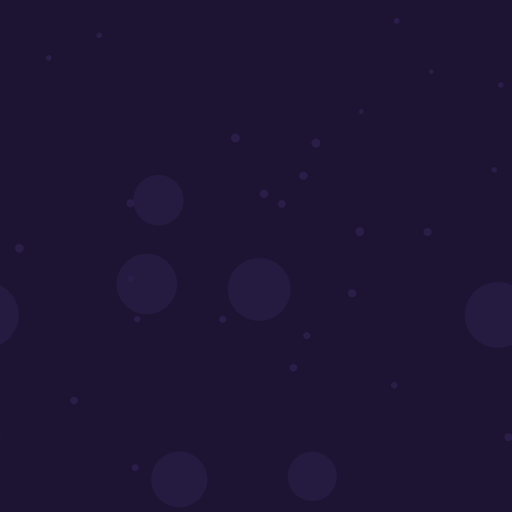
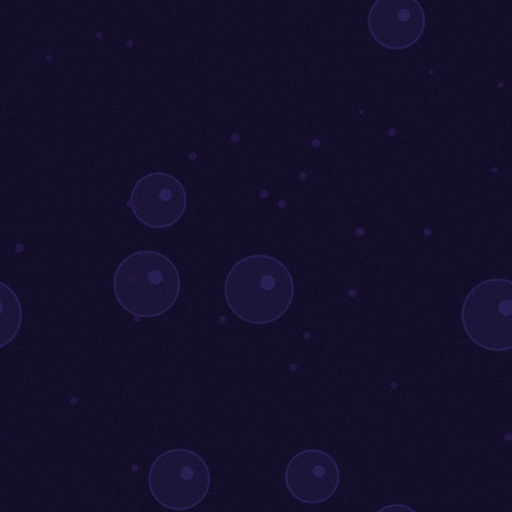
UI step 6: art pass (shaded germs, floor tile, glows, menu depth) at no fps cost
- Germ atlas (ShapeTextures.blob): baked glossy shading: a dark chunky
  outline, a body lit from the top-left with a darker underside and a
  highlight, the same light for all 16 eye directions. Same texture and
  draw count, so zero runtime cost.
- Floor tile regenerated in the new palette (tools/build_assets.py
  build_background): agar cells with a lighter rim and nucleus, dots, fine
  speckle.
- Soft glows on the floor under the player, elites and the Mother Cell
  (ShapeTextures.glow; drawn by WorldView under the sprite batches: a few
  quads per frame).
- Menu backdrop: germs at depths (far = soft out-of-focus glows, slower;
  near = shaded germs whose eyes look where they drift) and a soft spotlight
  behind the hero cell. One quad per germ (was two).
- Tried and dropped: a HUD edge vignette (~-2.6 fps in the render bench).

Render bench (xvfb, CPU-rendered, compare runs only): before 70.2 fps avg,
p95 16.67 ms, 170 draw calls; after 71.3 / 69.8 fps, p95 16.67 / 17.51 ms,
171-172 draw calls. No gameplay change.

Claude-Session: https://claude.ai/code/session_01Gsp3VsgeeLgrpKEN1j8eze

diff --git a/tools/build_assets.py b/tools/build_assets.py
@@ -116,24 +116,37 @@ def build_sfx() -> None:
     write("heartbeat", seq(env(osc(95, 48, 0.13, "sine"), attack=0.004, decay_pow=2.4), np.zeros(int(0.08 * RATE)), env(osc(85, 42, 0.11, "sine"), attack=0.004, decay_pow=2.6) * 0.7, np.zeros(int(0.05 * RATE))), 0.9)
 
 
-def build_background(size: int = 512, bg="#1d1433", dots="#2a1e48", cells="#251a40") -> None:
-    """Seamless 512px tile of faint dots and cells (drawn tiled under the world)."""
+def build_background(size: int = 512, bg="#150e2b", dots="#231845", cells="#1d1439", rims="#2b2056") -> None:
+    """Seamless 512px tile drawn under the world: an agar floor with soft
+    cells (a lighter rim, a darker inside), faint dots and fine speckle."""
+    from PIL import ImageFilter
     rng = np.random.default_rng(99)
     scale = 4  # supersample for smooth edges
     img = Image.new("RGB", (size * scale, size * scale), bg)
     d = ImageDraw.Draw(img)
 
-    def blob(x, y, r, col):
+    def blob(x, y, r, col, width=0):
         for ox in (-size, 0, size):  # wrap so the tile is seamless
             for oy in (-size, 0, size):
                 cx, cy = (x + ox) * scale, (y + oy) * scale
-                d.ellipse([cx - r * scale, cy - r * scale, cx + r * scale, cy + r * scale], fill=col)
+                box = [cx - r * scale, cy - r * scale, cx + r * scale, cy + r * scale]
+                if width:
+                    d.ellipse(box, outline=col, width=int(width * scale))
+                else:
+                    d.ellipse(box, fill=col)
 
-    for _ in range(6):
-        blob(rng.uniform(0, size), rng.uniform(0, size), rng.uniform(18, 44), cells)
-    for _ in range(26):
+    for _ in range(7):
+        x, y, r = rng.uniform(0, size), rng.uniform(0, size), rng.uniform(20, 48)
+        blob(x, y, r, cells)
+        blob(x, y, r, rims, width=2.2)
+        blob(x + r * 0.25, y - r * 0.2, r * 0.22, rims)  # a nucleus
+    for _ in range(30):
         blob(rng.uniform(0, size), rng.uniform(0, size), rng.uniform(2.0, 4.5), dots)
-    img = img.resize((size, size), Image.LANCZOS)
+    img = img.resize((size, size), Image.LANCZOS).filter(ImageFilter.GaussianBlur(0.6))
+    # Fine agar speckle (low contrast, seamless by construction).
+    arr = np.asarray(img).astype(np.int16)
+    arr += rng.integers(-3, 4, size=(size, size, 1)).astype(np.int16)
+    img = Image.fromarray(np.clip(arr, 0, 255).astype(np.uint8))
     out = ROOT / "assets" / "processed" / "bg_tile.png"
     img.save(out, optimize=True)
     print(f"wrote {out.name}")

diff --git a/docs/SESSION_HANDOFF.md b/docs/SESSION_HANDOFF.md
@@ -351,7 +351,7 @@ Yousuf's feel overrides the bot; use the bot for relative comparisons and catchi
 ## 10. What's next (prioritised backlog)
 
 **Next:**
-000. **UI/feel overhaul (Yousuf, 2026-11-06: "glossy chunky", Kenney font OK).** Step 1 (design system) done: glossy buttons, display font (Lilita One, OFL allowed for fonts), deeper palette, cards. Step 2 (motion) done: press squash + spring on every glossy button, staggered entrances for screens and overlays. Step 3 (level-up) done: "LEVEL UP!" header, cards framed by category (weapon colour / passive gold / dash cyan / Swarm green) with a tag, "LV n" chip, now→next stat lines for owned cards (`STAT_NAMES`, `_stat_lines`), gold frame + pulsing "EVOLUTION READY: <name>" when a pick makes an evolution ready (`_completes_evolution`), cards in slots so they slide in (`_card_slot`, `_slide_in`), pick animation (others drop, icon flies to BUILD, `_pick_animated`), Reroll/Later as small text buttons. Step 4 (HUD) done: top panel (gold level badge, HP bar with numbers, XP bar, big timer + Virulence, kills + run gold), weapon strip with level pips + passives chip (tap = build overlay; replaces the BUILD box), mode readout on the second row right, Nucleus/boss bars below, glossy disc buttons (`HudOverlay._gloss_disc`, `_bar`, `_rrect`, `_text`), HUD text in the display font. Step 5 (results) done: glossy outcome banner (gold win / red loss) with mode + Virulence, stat tiles that count up (`_stat_tile`; up to 4 in a row), highlights, big SCORE + NEW BEST, a REWARDS card (gold that flies to the wallet, Genes, "Vn CLEARED / Vn+1 UNLOCKED", achievements wrapped inside), green DOUBLE GOLD, big PLAY AGAIN, text-button Menu. Next: 6 menu background (replace random dots) + in-run world art (texture-based shading, dish rim, vignette; no shaders). 00. **Elite/boss HP floors (2026-11-06)** made timed-mode V1 bot wins ~0% (the bot can't survive 3:50-5:00 with an un-burstable Mother Cell). Options offered to Yousuf: playtest as is; spawn her later (e.g. 4:20); lower `min_life_s`; or end the run early / pay a big bonus when she's killed. **Playtest the new elite/boss threats (2026-11-05).** Bot V1 win rates dropped (Classic 27% → 6%, Infection 17% → 8%, Swarm 15% → 13%, Nucleus 35% → 44%); the Classic drop is mostly the Mother Cell hunting/pulling the bot into the crowd (with elites removed entirely it's still 4%). Ask Yousuf whether bosses/elites now feel right or too much; tune `enemies.json` boss (`hunt_mult`, `aim_every_s`, `slam_every_s`) and `waves.elites` (`hunt_mult`, affix numbers) from his notes.
+000. **UI/feel overhaul (Yousuf, 2026-11-06: "glossy chunky", Kenney font OK).** Step 1 (design system) done: glossy buttons, display font (Lilita One, OFL allowed for fonts), deeper palette, cards. Step 2 (motion) done: press squash + spring on every glossy button, staggered entrances for screens and overlays. Step 3 (level-up) done: "LEVEL UP!" header, cards framed by category (weapon colour / passive gold / dash cyan / Swarm green) with a tag, "LV n" chip, now→next stat lines for owned cards (`STAT_NAMES`, `_stat_lines`), gold frame + pulsing "EVOLUTION READY: <name>" when a pick makes an evolution ready (`_completes_evolution`), cards in slots so they slide in (`_card_slot`, `_slide_in`), pick animation (others drop, icon flies to BUILD, `_pick_animated`), Reroll/Later as small text buttons. Step 4 (HUD) done: top panel (gold level badge, HP bar with numbers, XP bar, big timer + Virulence, kills + run gold), weapon strip with level pips + passives chip (tap = build overlay; replaces the BUILD box), mode readout on the second row right, Nucleus/boss bars below, glossy disc buttons (`HudOverlay._gloss_disc`, `_bar`, `_rrect`, `_text`), HUD text in the display font. Step 5 (results) done: glossy outcome banner (gold win / red loss) with mode + Virulence, stat tiles that count up (`_stat_tile`; up to 4 in a row), highlights, big SCORE + NEW BEST, a REWARDS card (gold that flies to the wallet, Genes, "Vn CLEARED / Vn+1 UNLOCKED", achievements wrapped inside), green DOUBLE GOLD, big PLAY AGAIN, text-button Menu. Step 6 (art) done: germ atlas has baked glossy shading (dark outline, top-left light, highlight) at zero cost; regenerated floor tile (agar cells, speckle; `build_assets.py build_background`); soft glows under the player, elites and the boss (`ShapeTextures.glow`, `WorldView._draw_glows`, drawn under the batches); menu germs at depths (far = soft glows, near = shaded germs looking where they drift) + spotlight behind the hero. A HUD edge vignette was tried and dropped: about -2.6 fps in the render bench for little gain. Render bench (xvfb, relative): before 70.2 fps / 170 draw calls, after 71.3 and 69.8 fps / 171-172. 00. **Elite/boss HP floors (2026-11-06)** made timed-mode V1 bot wins ~0% (the bot can't survive 3:50-5:00 with an un-burstable Mother Cell). Options offered to Yousuf: playtest as is; spawn her later (e.g. 4:20); lower `min_life_s`; or end the run early / pay a big bonus when she's killed. **Playtest the new elite/boss threats (2026-11-05).** Bot V1 win rates dropped (Classic 27% → 6%, Infection 17% → 8%, Swarm 15% → 13%, Nucleus 35% → 44%); the Classic drop is mostly the Mother Cell hunting/pulling the bot into the crowd (with elites removed entirely it's still 4%). Ask Yousuf whether bosses/elites now feel right or too much; tune `enemies.json` boss (`hunt_mult`, `aim_every_s`, `slam_every_s`) and `waves.elites` (`hunt_mult`, affix numbers) from his notes.
 0. **Balance report 2026-11-05 (`docs/BALANCE_REPORT.md`).** Done: Genes per minute survived at V3+ and per-mode gold (Classic ×2, Nucleus ×1.8). **Deferred (Yousuf, deal with later):** (a) Swarm + full Lab wins 100% even at V10: measure with `--labx feed,clot,last_stand` (sustain nodes + allies soaking hits are the suspects), then tone down per mode; (b) Nucleus V10 is 0% even with everything, and the new Lab is weaker there (V8 83% → 42%): Nucleus-only Lab nodes (the planned "Specialisations" row) or a lower Nucleus `ramp_scale`. Also open: V6 (Thin membrane) and V9 (Virulent) are spike levels.
 1. **Dash damage scaling: DONE 2026-11-05 (option a).** `_dash_power` / `_rp_damage` now use `_power_scale()` = `_hp_mult()` ÷ `difficulty.virulence_hp_mult` (set by `apply_virulence`): in-run growth + mode toughness, not the Virulence ladder. V1 unchanged. **Still open:** Lysis and Volatile hit for a share of the dead germ's max HP, so they also ignore Virulence (Lysis = 18-34% of all damage at V8 with a full Lab). History of the old formula: `_dash_power(base) = base × (1 + might) × _hp_mult()`, and `_hp_mult()` = per-minute growth (1 + 1.2/min) × mode `enemy_hp_mult` × the whole Virulence ramp (1.5^(L-1) × ramp_scale, × 1.25 Pandemic at V10). At Classic V10, 4:00 that is ×~335, so a maxed Lunge (~110 base × 1.6 might) hits for ~59,000. It's a fixed share of a germ's HP at every Virulence, but weapons don't get the Virulence part, so at V8-10 the dash outclasses them. Same helper for the decoy, Second Wind, Slipstream, abilities (`_ability_power`) and Rift Powers (`_rp_damage`); Volatile and Lysis use a share of the dead germ's max HP. Options offered: (a) scale by the in-run growth only, not the Virulence ramp (keeps V1 identical); (b) keep it.
 2. **Abilities playtest** (phase 2 built 2026-11-05): do they feel like skill/utility? Are recharges (135-240 kills) right?

diff --git a/CLAUDE.md b/CLAUDE.md
@@ -47,7 +47,7 @@ assets/processed/    Generated outputs (committed with their .import files). ass
 - `World` owns all gameplay state as packed arrays (struct of arrays, swap-remove). It emits events (`hit`, `kill`, `nova`, `level_up`, ...) that `Main` turns into sound and haptics, and `WorldView` into effects. **Gameplay rules go in World, presentation goes in view or main.** Never put game logic in the view.
 - Rendering: anything numerous (enemies, gems, bullets, shots, particles) goes through `SpriteBatch` (same-texture rects that the renderer merges; white textures generated by `ShapeTextures`, tinted per sprite; enemy eyes use a 16-direction atlas instead of rotation). The background is one tiled texture (`assets/processed/bg_tile.png`). Only a few things use `draw_circle` and friends. No per-enemy nodes. **Do not use MultiMesh**: it did not render in the WebGL build.
 - `GameData.validate()` checks cross-references and runs in tests and at startup.
-- **UI look (2026-11-06, Yousuf: "glossy chunky"):** `UiKit.style_button(b, kind)` / `UiKit.button(..., kind)` give generated glossy 9-slice buttons (`UiKit.gloss`: outline, gloss band, 3D bottom edge that sinks when pressed; kinds primary/secondary/positive/danger), the theme default is the secondary gloss; `UiKit.label` ≥34 px and `UiKit.display(label)` use the display font **Lilita One** (OFL, `assets/raw/lilita_one/`) with a dark outline; `UiKit.card()` = lighter card + border + soft shadow. Body text stays in the default font. **Motion:** every glossy button squashes and springs back (`UiKit.press_feedback`, idempotent); `UiKit.fade_in` / `reveal` pop a screen's or overlay's children in one after another (`UiKit.stagger`). **HUD** (2026-11-06): top panel + weapon strip + glossy disc buttons, all drawn in `HudOverlay` (cached layers; HP is in the bars signature). Results screen redesigned the same way (banner, stat tiles, rewards card). Plan for the next UI step: menu background + in-run art (see SESSION_HANDOFF §10).
+- **UI look (2026-11-06, Yousuf: "glossy chunky"):** `UiKit.style_button(b, kind)` / `UiKit.button(..., kind)` give generated glossy 9-slice buttons (`UiKit.gloss`: outline, gloss band, 3D bottom edge that sinks when pressed; kinds primary/secondary/positive/danger), the theme default is the secondary gloss; `UiKit.label` ≥34 px and `UiKit.display(label)` use the display font **Lilita One** (OFL, `assets/raw/lilita_one/`) with a dark outline; `UiKit.card()` = lighter card + border + soft shadow. Body text stays in the default font. **Motion:** every glossy button squashes and springs back (`UiKit.press_feedback`, idempotent); `UiKit.fade_in` / `reveal` pop a screen's or overlay's children in one after another (`UiKit.stagger`). **HUD** (2026-11-06): top panel + weapon strip + glossy disc buttons, all drawn in `HudOverlay` (cached layers; HP is in the bars signature). Results screen redesigned the same way (banner, stat tiles, rewards card). Art pass done (shaded germ atlas, new floor tile, glows under player/elites/boss, depth-layered menu germs); measured with `tools/sim/bench_render.gd` (no fps change). Avoid full-screen or edge overlays: a 3-strip vignette cost ~2.6 fps in the render bench.
 
 ## Rules
 1. **Run the tests before every commit/PR.** Add or extend tests for any logic change. Tests must be seeded and deterministic.
